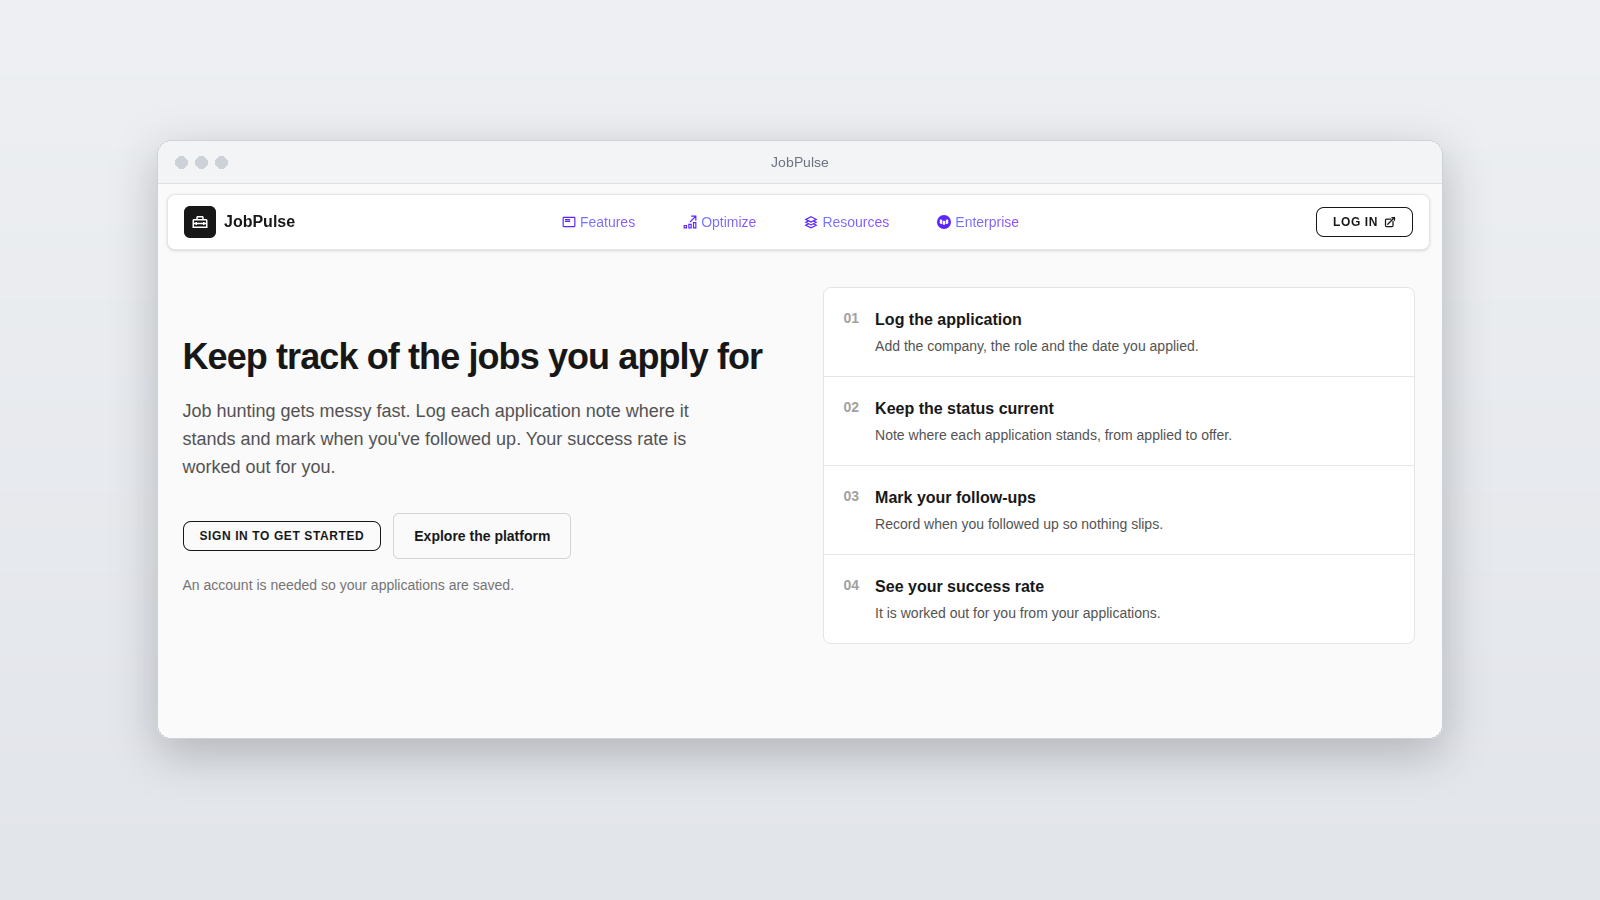
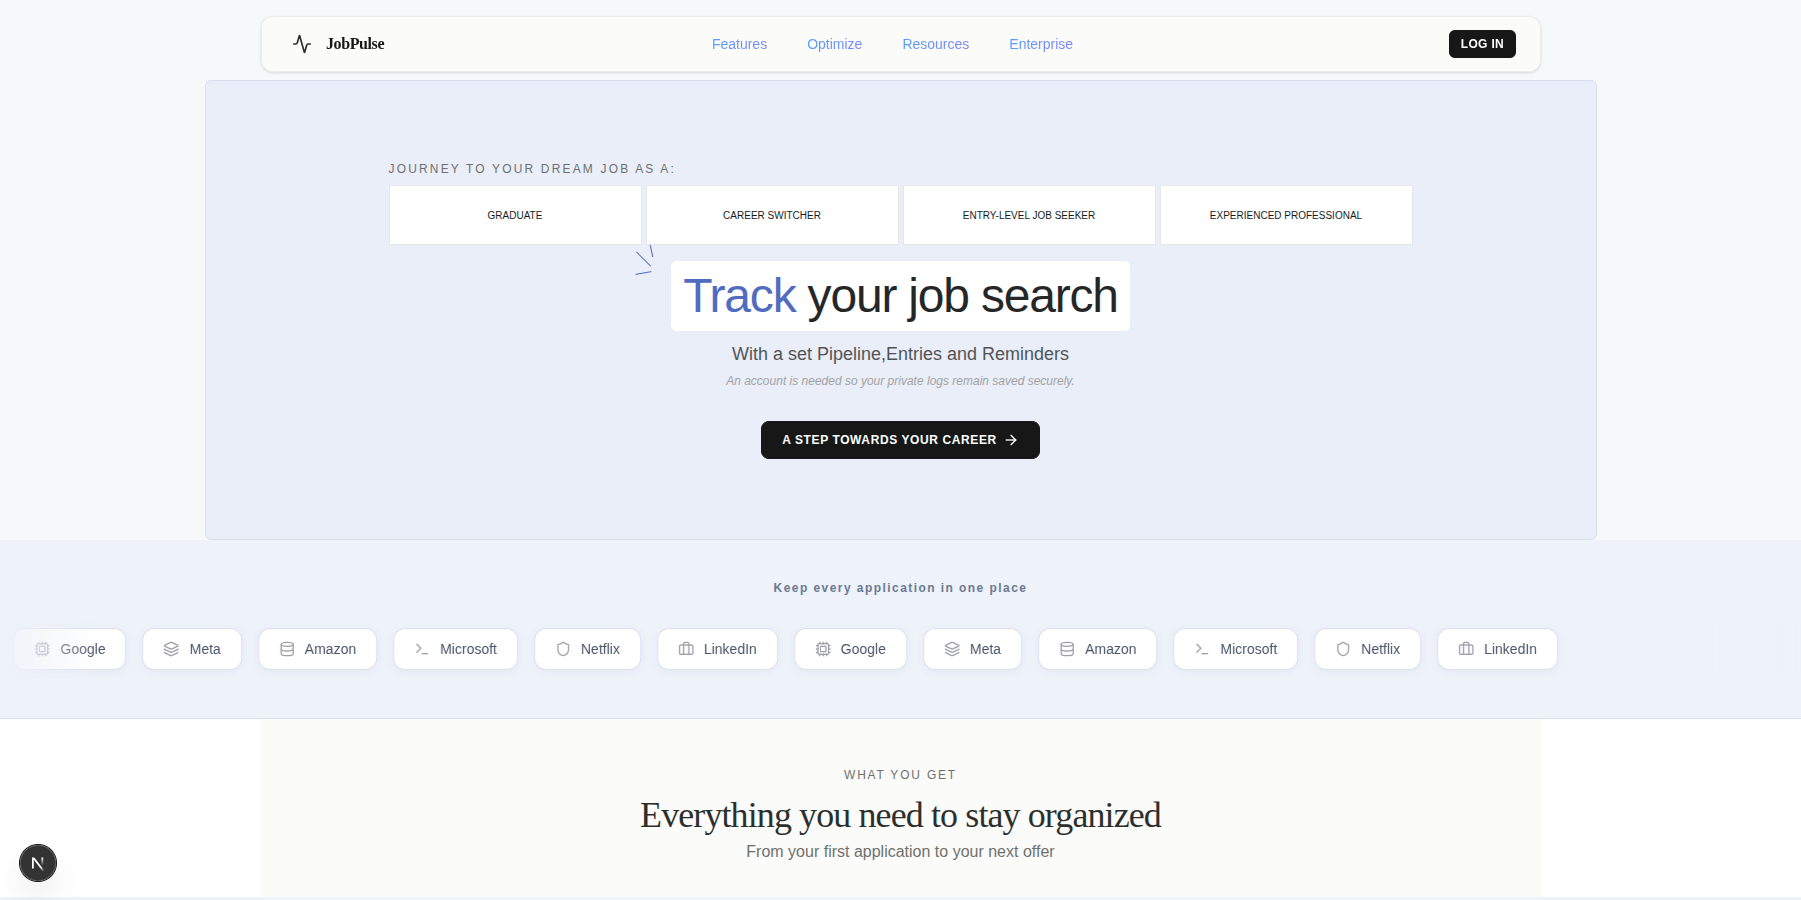
fixed jobpulse image resolution

diff --git a/lib/data.ts b/lib/data.ts
@@ -104,7 +104,7 @@ github?: string;
 };
 
 export const projects: Project[] = [
-  { name: "Job Pulse",image: "/job-pulse-hero.png", desc: "Job application tracker with a user-friendly UI, filters and charts.", stack: ["Next.js", "Tailwind"],href: "https://github.com/anold-a/job-pulse.git",github:"https://github.com/anold-a/job-pulse.git"},
+  { name: "Job Pulse",image: "/job-pulse-hero.webp", desc: "Job application tracker with a user-friendly UI, filters and charts.", stack: ["Next.js", "Tailwind"],href: "https://github.com/anold-a/job-pulse.git",github:"https://github.com/anold-a/job-pulse.git"},
   { name: "SmartSeason",image: "/farm.png", desc: "Role-based crop field monitoring system.", stack: ["Next.js", "Prisma", "TypeScript"], href: "https://github.com/anold-a/farm-flow.git",github:"https://github.com/anold-a/farm-flow.git"},
   
 ];

diff --git a/README.md b/README.md
@@ -1,3 +1,4 @@
   ![Coming soon](https://readme-typing-svg.demolab.com?font=JetBrains+Mono&size=28&color=blue&center=true&vCenter=true&width=600&height=80&lines=SUBJECT+TO+CONSTANT+UPDATES+🧟♂)
 
   >Probably Never
+  cwebp -q 85 job-pulse-hero.png -o job-pulse-hero.webp
